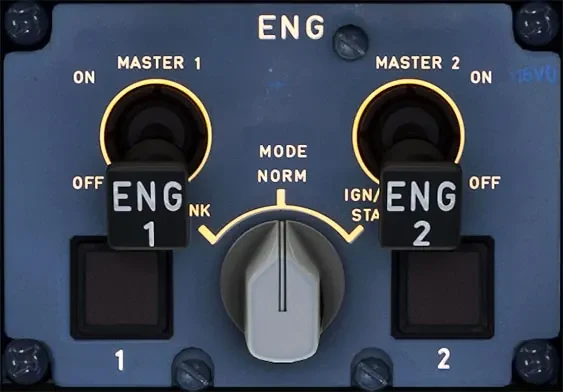
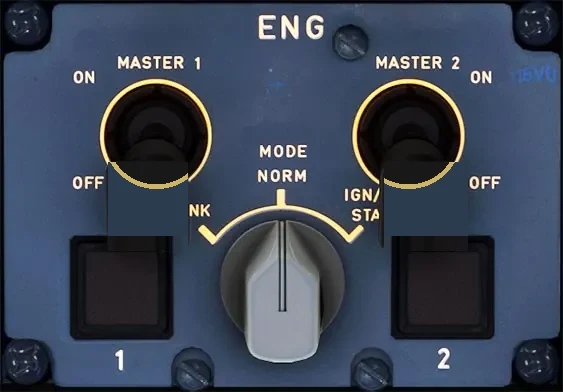
ENG MASTER levers move ON/OFF; always ON while the engines run
Claude-Session: https://claude.ai/code/session_01HhPZEK7C6Wo3chgfNqRpSP

Changed region(s): [[0.6643, 0.398, 0.8455, 0.6429], [0.1812, 0.398, 0.3321, 0.6429]]

diff --git a/js/flight.js b/js/flight.js
@@ -96,12 +96,12 @@ function flightStart(){const miss=flightReady();if(miss.length)return miss;
   const P=buildPath(),o=DB.apt[orig()],r=o.rwy[S.active.rwy],tr=r.crs+(o.var||0);
   Object.assign(FL,{active:true,running:true,t:0,utc0:Date.now(),path:P,s:0,seg:1,xtk:0,pos:r.pos,hdgT:tr,trkT:tr,roll:0,pitch:0,alt:r.tdze??o.elev,vs:0,ias:0,tas:0,gs:0,mach:0,
     ground:true,lat:'RWY',latArm:FCU.hdgMgd&&!(S.active.legs[1]&&S.active.legs[1].k==='disc')?'NAV':null,ver:'SRS',verArm:[FCU.lvlch?'CLB':'OP CLB'],thr:'IDLE',conf:['0','1+F','2','3','FULL'][LV.flaps],gear:true,gearPos:1,gaFlap:false,pmGearT:null,pmF3T:null,revDone:false,
-    fob:S.fuel.block-(S.fuel.taxi??0.2),fromIx:0,eoEng:null,crzDes:false,ldgSeq:0,gearT:null,f3T:null,inHold:null,holdExit:null,hsActive:null,cst:null,acc:0,accT:0,soe:false,opSmall:false,spdIsMach:false,capAlt:null,altHold:null,fmaT:{},loc:false,gsCap:false,tdReached:false,stage:'LINEUP',lvrT:null});LV.thr='IDLE';LV.gear='DOWN';LV.decel=false;
+    fob:S.fuel.block-(S.fuel.taxi??0.2),fromIx:0,eoEng:null,crzDes:false,ldgSeq:0,gearT:null,f3T:null,inHold:null,holdExit:null,hsActive:null,cst:null,acc:0,accT:0,soe:false,opSmall:false,spdIsMach:false,capAlt:null,altHold:null,fmaT:{},loc:false,gsCap:false,tdReached:false,stage:'LINEUP',lvrT:null});LV.thr='IDLE';LV.gear='DOWN';LV.decel=false;LV.m1=LV.m2=true;
   FCU.athr=true;FL.td=P.sThr-tdDist();FL.sig=planSig();S.phase='TAKEOFF';setFma();flightTick(0);return[]}
 function q2conf(){const f=S.perf.flaps;return f===1?'1+F':String(f||1)}
 
 /* ---------- LEVERS: thrust levers, flaps lever, landing gear lever, autobrake (the pilot's commands) ---------- */
-const LV={thr:'IDLE',flaps:0,gear:'DOWN',abrk:null,fan:false,askid:true,decel:false};
+const LV={thr:'IDLE',flaps:0,gear:'DOWN',abrk:null,fan:false,askid:true,decel:false,m1:false,m2:false};
 const VFE={'0':999,'1':230,'1+F':215,'2':200,'3':185,'FULL':177},VLE=280;
 let PM_AUTO=false;   /* test hook: a pilot monitoring that moves the levers (off in the app) */
 function lever(k,v){
@@ -113,6 +113,7 @@ function lever(k,v){
   else if(k==='flaps'){const n=+v;if(n>=0&&n<=4)LV.flaps=n}
   else if(k==='gear'){if(v==='UP'&&FL.active&&FL.ground)return;LV.gear=v}   /* weight on wheels: no gear up on the ground */
   else if(k==='abrk')LV.abrk=LV.abrk===v?null:v;
+  else if(k==='master'){if(FL.active)return;LV['m'+v]=!LV['m'+v]}   /* engines running in flight: masters stay ON */
   else if(k==='fan')LV.fan=!LV.fan;
   else if(k==='askid')LV.askid=!LV.askid;
   if(typeof refreshAll==='function')refreshAll()}

diff --git a/js/levers.js b/js/levers.js
@@ -5,7 +5,7 @@
    red UNLK in transit, AUTO BRK blue ON and green DECEL, BRK FAN ON) are drawn over the pushbuttons. Commands go to lever(). */
 const LVP={on:false};
 const IMG_LVG='img/lv-gear.webp',IMG_LVGL='img/lv-gear-lever.webp',IMG_LVT='img/lv-thr.webp',IMG_LVTL='img/lv-thr-l.webp',IMG_LVTR='img/lv-thr-r.webp',
-  IMG_LVF='img/lv-flaps.webp',IMG_LVFK='img/lv-flaps-knob.webp',IMG_LVE='img/lv-eng.webp';
+  IMG_LVF='img/lv-flaps.webp',IMG_LVFK='img/lv-flaps-knob.webp',IMG_LVE='img/lv-eng.webp',IMG_LVM1='img/lv-eng-ma.webp',IMG_LVM2='img/lv-eng-mb.webp';
 /* thrust lever positions on the quadrant image (y of the scale marks: TOGA, FLX/MCT, CL, the white 0 line, the REV zone to FULL);
    the centre of the handles is put on the mark */
 const THR_POS=[['TOGA','TOGA',73],['FLX','FLX/MCT',101],['CL','CL',135],['N50','50% N1',209],['IDLE','IDLE',283],['REVIDLE','IDLE REV',327],['REVMAX','MAX REV',375]];   /* quadrant image cropped 125 px at the top */
@@ -22,7 +22,10 @@ function leversSvg(){const G='#3cff3c',B='#3ad7ff',R='#ff3b30',ln='#e8eef5';
     const y=THR_POS.find(p=>p[0]===LV.thr)[2]-58;   /* handle images 117 high: centre on the mark */
     s+=`<image href="${IMG_LVTL}" x="34" y="${y}" width="128" height="117"/><image href="${IMG_LVTR}" x="170" y="${y}" width="128" height="117"/></g>`}
   THR_POS.forEach(([k,l],i)=>{s+=btn(192,2+i*47.5,84,42,'thr',k,l.replace('FLX/MCT','FLX MCT'),LV.thr===k,k.startsWith('REV')?'#ff9a55':null,12)});
-  s+=`<image href="${IMG_LVE}" x="0" y="339" width="276" height="192"/>`;
+  /* ENG MASTER panel (image 563 x 392): master levers OFF (down) or ON (up); always ON while the engines run (flight) */
+  {const k=276/563;s+=`<g transform="translate(0,339) scale(${k})"><image href="${IMG_LVE}" x="0" y="0" width="563" height="392"/>`;
+    [[1,108,80,IMG_LVM1],[2,384,84,IMG_LVM2]].forEach(([n,x,w,im])=>{const on=LV['m'+n];s+=`<image href="${im}" x="${x}" y="${on?74:162}" width="${w}" height="89"/>`+hit(x-20,60,w+40,200,'master',n)});
+    s+=`</g>`}
   /* ---- right top: landing gear panel (image 676 x 333) ---- */
   {const x0=282,k=318/676;s+=`<g transform="translate(${x0},2) scale(${k})"><image href="${IMG_LVG}" x="0" y="0" width="676" height="333"/>`;
     const gp=flying()?(FL.gearPos??1):1,dn=gp>=1,tr=gp>0&&gp<1;

diff --git a/index.html b/index.html
@@ -136,7 +136,7 @@
 <script src="js/perf.js?v=5299fc45"></script>
 <script src="js/fcu.js?v=23325c92"></script>
 <script src="js/nd.js?v=966eb62a"></script>
-<script src="js/flight.js?v=1fdb1534"></script>
+<script src="js/flight.js?v=fcca8717"></script>
 <script src="js/vnav.js?v=f8e8618f"></script>
 <script src="js/mcdu3.js?v=e6544b94"></script>
 <script src="js/mcdu4.js?v=926401a9"></script>
@@ -145,7 +145,7 @@
 <script src="js/setup.js?v=bcc55ea4"></script>
 <script src="js/pfd.js?v=6f6c1c15"></script>
 <script src="js/ecam.js?v=1845e501"></script>
-<script src="js/levers.js?v=34d03fbf"></script>
+<script src="js/levers.js?v=fce275fa"></script>
 <script src="js/sdpages.js?v=fe8668eb"></script>
 <script src="js/cockpit3d.js?v=1ee46420"></script>
 <script src="js/app.js?v=9ebd617e"></script>

diff --git a/tests/test_flow.py b/tests/test_flow.py
@@ -288,6 +288,8 @@ async def run(url,b):
       S.sec=clone(S.active);S.secMode=true;S.lr=FL.fromIx;S.page='LATREV';S.sp='OEJN';P.LATREV.lsk('R',4);S.secMode=false;S.page='SECIDX';P.SECIDX.lsk('L',4);
       const ret=[S.active.legs[idxK(S.active,'dest')].id,I().to];directTo('OEJN');P.DIR.lsk('R',6);step(0.5);
       const dt=S.active.legs.filter(l=>l.k==='tp'||l.k==='dest').map(l=>l.k).join();window.__flight('reset');window.__flight('pm:on');S.active=clone(window.__plan0);FCU.alt=34000;return{a,b,ret,dt}})()""")
+    m=await pg.evaluate("(()=>{LV.m1=LV.m2=false;lever('master',1);const off=LV.m1;lever('master',1);window.__flight('start');const a=[LV.m1,LV.m2];lever('master',1);const b=LV.m1;window.__flight('reset');return[off,a,b]})()")
+    assert m==[True,[True,True],True],f'ENG MASTER ON while the engines run, not switchable in flight: {m}'
     assert r['a']['lineup']==['LINEUP',0] and r['a']['n1']==50,f'lined up, still until the thrust levers move; 50% N1: {r["a"]}'
     assert r['a']['thr']=='LVR' and r['a']['thr2']=='CL','LVR CLB until the thrust levers are set to CL'
     assert 0.35<r['a']['climb']/r['b']['climb']<0.7,f'gear left down: about half the climb: {r["a"]["climb"]} vs {r["b"]["climb"]}'
